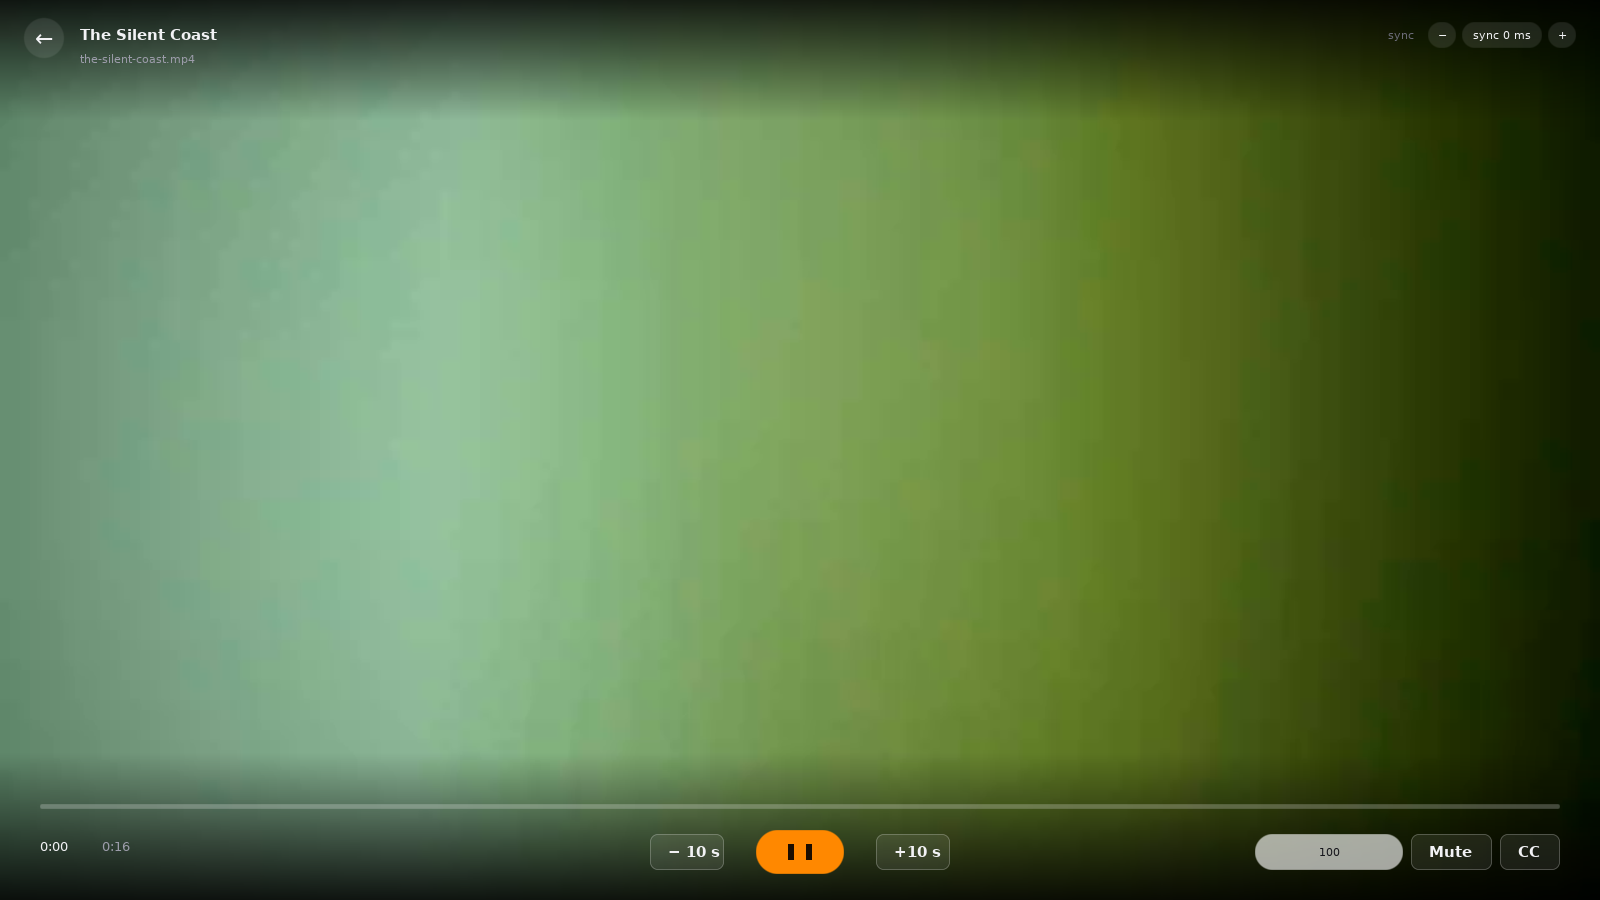
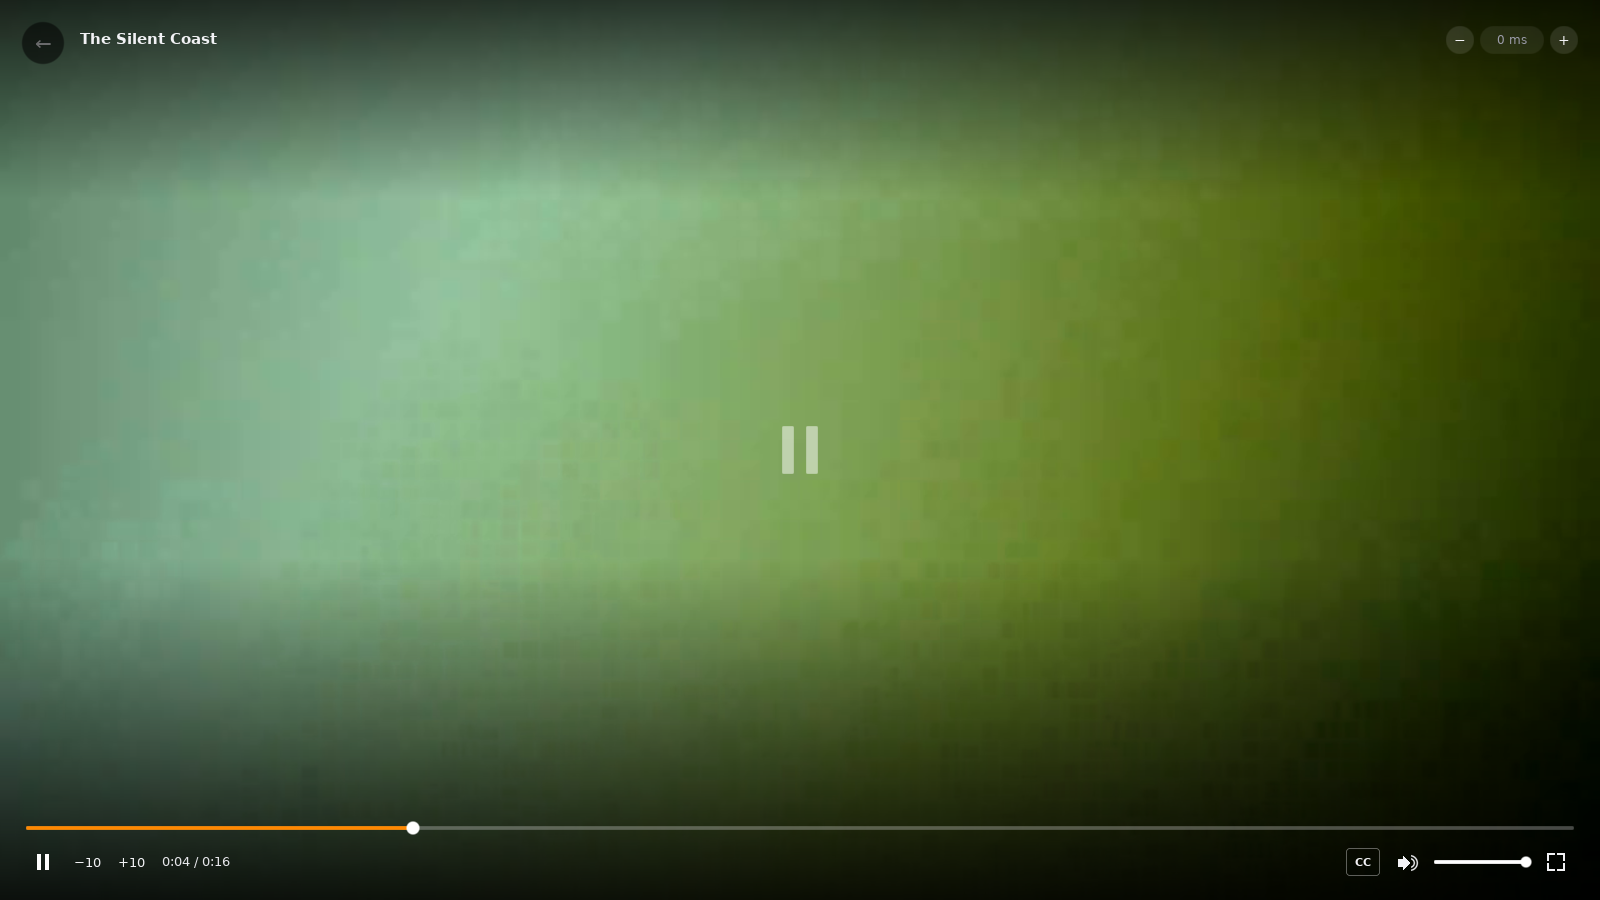
ui: match the player chrome and the hovered card

diff --git a/src/ui/player.cpp b/src/ui/player.cpp
@@ -439,6 +439,7 @@ void App::draw_player_frame(Canvas& canvas) {
     draw_end_card(canvas);
     return;
   }
+  draw_player_back(canvas);
   if (chrome_visible_) draw_chrome(canvas);
 }
 
@@ -472,114 +473,149 @@ void App::draw_end_card(Canvas& canvas) {
   draw_button(canvas, close, "Back to browse", false, Action{Action::Kind::ClosePlayer, -1, ""});
 }
 
+void App::draw_player_back(Canvas& canvas) {
+  const Rect back{22, 22, 42, 42};
+  canvas.fill_circle(back.x + 21, back.y + 21, 21, rgba(0x000000, 140));
+  regular_.draw_centered(canvas, "\xE2\x86\x90", back, 20, theme::text());
+  add_hit(back, Action{Action::Kind::ClosePlayer, -1, ""});
+}
+
 void App::draw_chrome(Canvas& canvas) {
   const float width = static_cast<float>(width_);
   const float height = static_cast<float>(height_);
   const Item* item = playing_index_ >= 0 && static_cast<std::size_t>(playing_index_) < catalog_.items.size()
                          ? &catalog_.items[static_cast<std::size_t>(playing_index_)]
                          : nullptr;
+  const bool playing = player_status_.state == PlayState::Playing;
 
-  // Top bar: back, title, and the sync chip.
-  canvas.fill_gradient_v(Rect{0, 0, width, 120}, rgba(0x000000, 210), rgba(0x000000, 0));
-  const Rect back{24, 18, 40, 40};
-  canvas.fill_circle(back.x + 20, back.y + 20, 20, rgba(0xffffff, 24));
-  regular_.draw_centered(canvas, "\xE2\x86\x90", back, 22, theme::text());
-  add_hit(back, Action{Action::Kind::ClosePlayer, -1, ""});
+  canvas.fill_gradient_v(Rect{0, 0, width, height * 0.22f}, rgba(0x000000, 184), rgba(0x000000, 0));
+  canvas.fill_gradient_v(Rect{0, height * 0.62f, width, height * 0.38f}, rgba(0x000000, 0),
+                         rgba(0x000000, 224));
+
   if (item) {
-    bold_.draw(canvas, bold_.ellipsize(item->title, theme::kFontBody, width - 480), 80, 26,
-               theme::kFontBody, theme::text());
-    regular_.draw(canvas, item->filename, 80, 52, theme::kFontTiny, theme::dim());
-    add_hit(Rect{80, 18, width - 480, 56}, Action{Action::Kind::OpenDetail, playing_index_, ""});
+    bold_.draw(canvas, bold_.ellipsize(item->title, 15.0f, width - 280), 80, 30, 15.0f, theme::text());
   }
-  // Sync, top right: [−] [sync 0 ms] [+]. Laid out from the right edge inwards so
-  // the last control can never fall off the window (it did in the first screenshot).
-  const float margin = 24;
-  const Rect sync_plus{width - margin - 28, 22, 28, 26};
-  const std::string sync_text = "sync " + describe_delay(manual_sync_ms_);
-  const float sync_w = regular_.measure(sync_text, theme::kFontTiny).width + 22;
-  const Rect sync_chip{sync_plus.x - 6 - sync_w, 22, sync_w, 26};
-  const Rect sync_minus{sync_chip.x - 6 - 28, 22, 28, 26};
-  const bool corrected = sync_plan_.audio_delay_ms != 0 || sync_plan_.video_delay_ms != 0;
-  canvas.fill_round_rect(sync_chip, 13, corrected ? rgba(theme::kAccent, 70) : rgba(0xffffff, 26));
-  regular_.draw_centered(canvas, sync_text, sync_chip, theme::kFontTiny, theme::text());
-  canvas.fill_round_rect(sync_minus, 13, rgba(0xffffff, 26));
-  regular_.draw_centered(canvas, "\xE2\x88\x92", sync_minus, theme::kFontTiny, theme::text());
-  add_hit(sync_minus, Action{Action::Kind::NudgeSync, -1, "-20"});
-  canvas.fill_round_rect(sync_plus, 13, rgba(0xffffff, 26));
-  regular_.draw_centered(canvas, "+", sync_plus, theme::kFontTiny, theme::text());
-  add_hit(sync_plus, Action{Action::Kind::NudgeSync, -1, "+20"});
-  regular_.draw(canvas, "sync", sync_minus.x - 40, 28, theme::kFontTiny, theme::faint());
 
-  // Bottom bar: scrub, then the controls.
-  const float bar_h = 148;
-  canvas.fill_gradient_v(Rect{0, height - bar_h, width, bar_h}, rgba(0x000000, 0),
-                         rgba(0x000000, 225));
-  const float gutter = 40;
-  const float track_y = height - 96;
-  const Rect track{gutter, track_y, width - 2 * gutter, 5};
-  canvas.fill_round_rect(track, 2.5f, rgba(0xffffff, 60));
+  const float margin = 22.0f;
+  const Rect sync_plus{width - margin - 28, 26, 28, 28};
+  const std::string sync_text = describe_delay(manual_sync_ms_);
+  const float sync_w = std::max(64.0f, regular_.measure(sync_text, 11.5f).width + 16);
+  const Rect sync_chip{sync_plus.x - 6 - sync_w, 26, sync_w, 28};
+  const Rect sync_minus{sync_chip.x - 6 - 28, 26, 28, 28};
+  canvas.fill_round_rect(sync_minus, 14, rgba(0xffffff, 28));
+  regular_.draw_centered(canvas, "\xE2\x88\x92", sync_minus, 14, theme::text());
+  add_hit(sync_minus, Action{Action::Kind::NudgeSync, -1, "-20"});
+  canvas.fill_round_rect(sync_chip, 14, rgba(0xffffff, 18));
+  regular_.draw_centered(canvas, sync_text, sync_chip, 11.5f, theme::dim());
+  canvas.fill_round_rect(sync_plus, 14, rgba(0xffffff, 28));
+  regular_.draw_centered(canvas, "+", sync_plus, 14, theme::text());
+  add_hit(sync_plus, Action{Action::Kind::NudgeSync, -1, "+20"});
+
+  // Centre icon: pause bars while playing, a play triangle while paused. Only this
+  // box is the button, not the whole picture.
+  const Rect big{(width - 84.0f) / 2.0f, (height - 84.0f) / 2.0f, 84, 84};
+  const int icon_alpha = playing ? 128 : 235;
+  if (playing) {
+    canvas.fill_round_rect(Rect{big.x + 24, big.y + 18, 12, 48}, 2, rgba(0xffffff, icon_alpha));
+    canvas.fill_round_rect(Rect{big.x + 48, big.y + 18, 12, 48}, 2, rgba(0xffffff, icon_alpha));
+  } else {
+    canvas.fill_triangle_right(Rect{big.x + 30, big.y + 20, 28, 44}, rgba(0xffffff, icon_alpha));
+  }
+  add_hit(big, Action{Action::Kind::TogglePause, -1, ""});
+
+  const float edge = 26.0f;
+  const float controls_y = height - 20.0f - 36.0f;
+  const Rect track{edge, controls_y - 18.0f, width - 2 * edge, 4};
+  player_seek_track_ = track;
+  canvas.fill_round_rect(track, 2, rgba(0xffffff, 70));
   const double length = player_status_.length > 0 ? player_status_.length : 0;
   const double fraction = length > 0 ? std::clamp(player_status_.time / length, 0.0, 1.0) : 0.0;
   if (fraction > 0) {
-    canvas.fill_round_rect(Rect{track.x, track.y, track.w * static_cast<float>(fraction), track.h},
-                           2.5f, theme::accent());
-    canvas.fill_circle(track.x + track.w * static_cast<float>(fraction), track.y + 2.5f, 7,
-                       theme::accent());
+    canvas.fill_round_rect(Rect{track.x, track.y, track.w * static_cast<float>(fraction), track.h}, 2,
+                           theme::accent());
   }
-  // A larger invisible hit area than the 5 px bar: nobody can hit 5 px with a mouse.
-  add_hit(Rect{gutter, track_y - 14, track.w, 32}, Action{Action::Kind::Seek, -1, ""});
+  const float thumb_x = track.x + track.w * static_cast<float>(fraction);
+  canvas.fill_circle(thumb_x, track.y + 2, 6.5f, rgb(0xffffff));
+  add_hit(Rect{track.x, track.y - 10, track.w, 24}, Action{Action::Kind::Seek, -1, ""});
 
-  const float controls_y = height - 66;
-  regular_.draw(canvas, clock_text(player_status_.time), gutter, controls_y + 4, theme::kFontSmall,
-                theme::text());
-  regular_.draw(canvas, clock_text(length), gutter + 62, controls_y + 4, theme::kFontSmall,
-                theme::dim());
+  auto pause_mark = [&](const Rect& box, int alpha) {
+    if (playing) {
+      canvas.fill_rect(Rect{box.x + 11, box.y + 10, 4, 16}, rgba(0xffffff, alpha));
+      canvas.fill_rect(Rect{box.x + 19, box.y + 10, 4, 16}, rgba(0xffffff, alpha));
+    } else {
+      canvas.fill_triangle_right(Rect{box.x + 12, box.y + 10, 12, 16}, rgba(0xffffff, alpha));
+    }
+  };
+  const Rect toggle{edge, controls_y, 36, 36};
+  pause_mark(toggle, 255);
+  add_hit(toggle, Action{Action::Kind::TogglePause, -1, ""});
 
-  const float center = width / 2;
-  // Previous 10 s, play/pause, next 10 s.
-  const Rect back10{center - 150, controls_y, 74, 36};
-  draw_button(canvas, back10, "\xE2\x88\x92 10 s", false, Action{Action::Kind::SeekRelative, -1, "-10"});
-  const Rect play{center - 44, controls_y - 4, 88, 44};
-  canvas.fill_round_rect(play, 22, theme::accent());
-  if (player_status_.state == PlayState::Playing) {
-    canvas.fill_rect(Rect{play.x + 32, play.y + 14, 6, 16}, rgb(0x1a0d00));
-    canvas.fill_rect(Rect{play.x + 50, play.y + 14, 6, 16}, rgb(0x1a0d00));
-  } else {
-    canvas.fill_triangle_right(Rect{play.x + 36, play.y + 13, 16, 18}, rgb(0x1a0d00));
+  const Rect back10{toggle.right() + 4, controls_y, 42, 36};
+  regular_.draw_centered(canvas, "\xE2\x88\x92" "10", back10, 13, theme::text());
+  add_hit(back10, Action{Action::Kind::SeekRelative, -1, "-10"});
+  const Rect fwd10{back10.right() + 2, controls_y, 42, 36};
+  regular_.draw_centered(canvas, "+10", fwd10, 13, theme::text());
+  add_hit(fwd10, Action{Action::Kind::SeekRelative, -1, "10"});
+
+  const std::string clock = clock_text(player_status_.time) + " / " + clock_text(length);
+  regular_.draw(canvas, clock, fwd10.right() + 10, controls_y + 10, 12.5f, rgb(0xe6e6ea));
+
+  // Right cluster, from the edge inwards: fullscreen, volume, speaker, CC.
+  const Rect full{width - edge - 36, controls_y, 36, 36};
+  const float fx = full.x + 9;
+  const float fy = full.y + 9;
+  canvas.fill_rect(Rect{fx, fy, 8, 2}, theme::text());
+  canvas.fill_rect(Rect{fx, fy, 2, 8}, theme::text());
+  canvas.fill_rect(Rect{fx + 10, fy, 8, 2}, theme::text());
+  canvas.fill_rect(Rect{fx + 16, fy, 2, 8}, theme::text());
+  canvas.fill_rect(Rect{fx, fy + 16, 8, 2}, theme::text());
+  canvas.fill_rect(Rect{fx, fy + 10, 2, 8}, theme::text());
+  canvas.fill_rect(Rect{fx + 10, fy + 16, 8, 2}, theme::text());
+  canvas.fill_rect(Rect{fx + 16, fy + 10, 2, 8}, theme::text());
+  add_hit(full, Action{Action::Kind::ToggleFullscreen, -1, ""});
+
+  const Rect vol_track{full.x - 12 - 92, controls_y + 16, 92, 4};
+  player_volume_track_ = vol_track;
+  canvas.fill_round_rect(vol_track, 2, rgba(0xffffff, 80));
+  const float level = engine_.muted() ? 0.0f : std::clamp(engine_.volume() / 100.0f, 0.0f, 1.0f);
+  if (level > 0) {
+    canvas.fill_round_rect(Rect{vol_track.x, vol_track.y, vol_track.w * level, vol_track.h}, 2,
+                           rgb(0xffffff));
   }
-  add_hit(play, Action{Action::Kind::TogglePause, -1, ""});
-  const Rect fwd10{center + 76, controls_y, 74, 36};
-  draw_button(canvas, fwd10, "+10 s", false, Action{Action::Kind::SeekRelative, -1, "10"});
+  canvas.fill_circle(vol_track.x + vol_track.w * level, vol_track.y + 2, 5.5f, rgb(0xffffff));
+  add_hit(Rect{vol_track.x - 4, vol_track.y - 8, vol_track.w + 8, 20},
+          Action{Action::Kind::Volume, -1, ""});
 
-  // Right: volume, mute, subtitles, laid out from the right edge inwards so the last
-  // control cannot be clipped (it was: the CC label fell off the window edge).
-  const float right = width - gutter;
-  const float cc_w = button_width("CC", false);
-  const Rect sub{right - cc_w, controls_y, cc_w, 36};
-  // A highlighted CC means "subtitles on", so it is drawn as a primary button but
-  // without the play triangle that primary normally carries.
-  draw_button(canvas, sub, "CC", subtitle_track_ >= 0, Action{Action::Kind::CycleSubtitles, -1, ""},
-              false);
-  const std::string mute_label = engine_.muted() ? "Muted" : "Mute";
-  const float mute_w = button_width(mute_label, engine_.muted(), false);
-  const Rect mute{sub.x - 8 - mute_w, controls_y, mute_w, 36};
-  draw_button(canvas, mute, mute_label, engine_.muted(), Action{Action::Kind::Mute, -1, ""}, false);
-  const Rect vol{mute.x - 8 - 148, controls_y, 148, 36};
-  canvas.fill_round_rect(vol, 18, rgba(0xffffff, 26));
-  const float level = std::clamp(engine_.volume() / 100.0f, 0.0f, 1.0f);
-  canvas.fill_round_rect(Rect{vol.x, vol.y, vol.w * level, vol.h}, 18, rgba(0xffffff, 150));
-  regular_.draw_centered(canvas, std::to_string(engine_.volume()),
-                         Rect{vol.x, vol.y, vol.w, vol.h}, theme::kFontTiny,
-                         level > 0.55f ? rgb(0x15151b) : theme::text());
-  add_hit(vol, Action{Action::Kind::Volume, -1, ""});
+  const Rect speaker{vol_track.x - 8 - 36, controls_y, 36, 36};
+  const float sx = speaker.x + 8;
+  const float sy = speaker.y + 11;
+  canvas.fill_rect(Rect{sx, sy + 4, 5, 8}, theme::text());
+  canvas.fill_triangle_right(Rect{sx + 5, sy, 8, 16}, theme::text());
+  if (!engine_.muted()) {
+    // Only the right half of the rings, so they read as sound waves rather than a target.
+    canvas.push_clip(Rect{sx + 13, sy - 2, 16, 22});
+    canvas.stroke_circle(sx + 12, sy + 8, 5, 1.4f, theme::text());
+    canvas.stroke_circle(sx + 12, sy + 8, 8, 1.4f, theme::text());
+    canvas.pop_clip();
+  }
+  add_hit(speaker, Action{Action::Kind::Mute, -1, ""});
+
+  const bool subs_on = subtitle_track_ >= 0;
+  const Rect cc{speaker.x - 8 - 36, controls_y + 4, 34, 28};
+  if (subs_on) canvas.fill_round_rect(cc, 4, rgb(0xe50914));
+  else canvas.stroke_round_rect(cc, 4, 1.0f, rgba(0xffffff, 90));
+  bold_.draw_centered(canvas, "CC", cc, 11, theme::text());
+  add_hit(cc, Action{Action::Kind::CycleSubtitles, -1, ""});
 
   if (!player_error_.empty()) {
-    regular_.draw_centered(canvas, player_error_, Rect{0, height - 150, width, 24},
-                           theme::kFontSmall, rgb(0xff8f8f));
+    const float text_w = regular_.measure(player_error_, 12.5f).width;
+    const Rect pill{(width - std::min(text_w + 36, width - 80)) / 2, height - 118,
+                    std::min(text_w + 36, width - 80), 36};
+    canvas.fill_round_rect(pill, 18, rgba(0xffe4e4, 230));
+    regular_.draw_centered(canvas, regular_.ellipsize(player_error_, 12.5f, pill.w - 24), pill, 12.5f,
+                           rgb(0x8a1f1f));
   }
 }
-
-
 
 /* --------------------------------- input ---------------------------------- */
 
@@ -601,11 +637,11 @@ bool App::handle_player(const InputEvent& event) {
       switch (action.kind) {
         case Action::Kind::Seek: {
           const double length = player_status_.length;
-          if (length <= 0) return false;
-          const float gutter = 40;
-          const float span = static_cast<float>(width_) - 2 * gutter;
+          if (length <= 0 || player_seek_track_.w <= 1) return false;
           const double target =
-              std::clamp(static_cast<double>((event.x - gutter) / span), 0.0, 1.0) * length;
+              std::clamp(static_cast<double>((event.x - player_seek_track_.x) / player_seek_track_.w), 0.0,
+                         1.0) *
+              length;
           engine_.seek(target);
           return true;
         }
@@ -620,11 +656,12 @@ bool App::handle_player(const InputEvent& event) {
           engine_.set_muted(!engine_.muted());
           return true;
         case Action::Kind::Volume:
-          // The same geometry the drawing used: [volume][8][mute][8][CC] from the right.
+          if (player_volume_track_.w <= 1) return false;
           engine_.set_volume(static_cast<int>(
-              (event.x - (static_cast<float>(width_) - 40 - button_width("CC", false) - 8 -
-                          button_width("Muted", false) - 8 - 148)) *
-              100.0f / 148.0f));
+              std::clamp((event.x - player_volume_track_.x) / player_volume_track_.w, 0.0f, 1.0f) * 100.0f));
+          return true;
+        case Action::Kind::ToggleFullscreen:
+          if (on_toggle_fullscreen) on_toggle_fullscreen();
           return true;
         case Action::Kind::CycleSubtitles:
           cycle_subtitle_track(1);

diff --git a/src/ui/app.cpp b/src/ui/app.cpp
@@ -596,7 +596,9 @@ void App::draw_poster_card(Canvas& canvas, const Rect& rect, const Item& item, b
   // rectangle up in the hit list afterwards found the wrong thing (the hero has clickable
   // areas for the same film), which drew the enlarged card over the buttons instead of
   // over the poster the pointer is on.
-  if (hovered && pointer_known_ && card.contains(pointer_x_, pointer_y_)) {
+  // A real pointer has to be on this card. A render that forced the hover has no
+  // pointer yet, and still needs the card it named.
+  if (hovered && (!pointer_known_ || card.contains(pointer_x_, pointer_y_))) {
     hover_card_rect_ = card;
     hover_card_valid_ = true;
   }
@@ -645,9 +647,7 @@ void App::draw_hover_card(Canvas& canvas) {
   const Item& item = catalog_.items[static_cast<std::size_t>(hover_item_)];
   const bool wide = card->w > card->h * 1.2f;  // "Continue Watching" cards are 16:9
 
-  // Grow around the card's own centre, so it looks like the card rising towards the
-  // pointer rather than sliding away from it.
-  const float scale = wide ? 1.12f : 1.24f;
+  const float scale = wide ? 1.34f : 1.06f;
   float w = card->w * scale;
   float h = card->h * scale;
   float x = card->x + card->w / 2 - w / 2;
@@ -701,21 +701,21 @@ void App::draw_hover_card(Canvas& canvas) {
                          rgba(0x000000, 0), rgba(0x000000, 215));
   bold_.draw(canvas, bold_.ellipsize(item.title, theme::kFontBody, grown.w - 24), grown.x + 12,
              grown.bottom() - text_block + 6, theme::kFontBody, theme::text());
-  regular_.draw(canvas, regular_.ellipsize(meta_line(item), theme::kFontTiny, grown.w - 24),
-                grown.x + 12, grown.bottom() - text_block + 32, theme::kFontTiny,
-                rgba(0xffffff, 200));
-  if (const int percent = percent_for(item); percent > 0) {
-    const float bar_height = 4;
-    const float bar_y = grown.bottom() - text_block + 50;
-    canvas.fill_round_rect(Rect{grown.x + 12, bar_y, grown.w - 24, bar_height}, bar_height / 2,
-                           rgba(0xffffff, 70));
-    canvas.fill_round_rect(Rect{grown.x + 12, bar_y, (grown.w - 24) * percent / 100.0f, bar_height},
-                           bar_height / 2, theme::accent());
-  }
-  canvas.stroke_round_rect(grown, radius, 2.0f, rgba(theme::kAccent, 235));
+  const float by = grown.bottom() - text_block - 36;
+  auto mini = [&](float x, bool filled, const char* mark, Action action) {
+    const Rect box{x, by, 25, 25};
+    if (filled) canvas.fill_circle(box.x + 12.5f, box.y + 12.5f, 12.5f, rgb(0xffffff));
+    else canvas.stroke_circle(box.x + 12.5f, box.y + 12.5f, 12.0f, 1.5f, rgba(0xffffff, 180));
+    if (filled) canvas.fill_triangle_right(Rect{box.x + 9, box.y + 7, 9, 11}, rgb(0x0b0b0f));
+    else regular_.draw_centered(canvas, mark, box, 12, theme::text());
+    add_hit(box, action);
+  };
   canvas.pop_clip();
 
   add_hit(grown, Action{Action::Kind::OpenDetail, hover_item_, ""});
+  mini(grown.x + 12, true, "", Action{Action::Kind::Play, hover_item_, ""});
+  mini(grown.x + 43, false, "+", Action{Action::Kind::ToggleMyList, hover_item_, ""});
+  mini(grown.x + 74, false, "i", Action{Action::Kind::OpenDetail, hover_item_, ""});
 }
 
 void App::draw_hover_preview(Canvas& canvas) { draw_hover_card(canvas); }
@@ -2017,6 +2017,7 @@ bool App::handle(const InputEvent& event) {
         case Action::Kind::Volume:
         case Action::Kind::CycleSubtitles:
         case Action::Kind::NudgeSync:
+        case Action::Kind::ToggleFullscreen:
           return false;
       }
       return false;

diff --git a/tests/ui_tests.cpp b/tests/ui_tests.cpp
@@ -1096,9 +1096,11 @@ void test_ui_hover_grows_in_place() {
   CHECK(found_grown);
   CHECK(grown.h > rest.h);
 
-  // In place: the same centre as the card at rest, not a panel somewhere else.
+  // In place: the same centre as the card at rest, not a panel somewhere else. A card
+  // that would leave the window is nudged back, so the vertical centre can move a few
+  // pixels. A panel drawn above or below would miss by a card-height, not by a nudge.
   CHECK_NEAR(grown.x + grown.w / 2, rest.x + rest.w / 2, 1.0);
-  CHECK_NEAR(grown.y + grown.h / 2, rest.y + rest.h / 2, 1.0);
+  CHECK_NEAR(grown.y + grown.h / 2, rest.y + rest.h / 2, 8.0);
 
   // On screen, and below the header rather than over it.
   CHECK(grown.x >= -1);
@@ -1125,9 +1127,8 @@ void test_ui_hover_grows_in_place() {
   }
   CHECK(same);
 
-  // One new hit area - the grown card - and no panel's worth of extra ones.
   CHECK(app.hit_rects().size() >= hits_before);
-  CHECK(app.hit_rects().size() <= hits_before + 1);
+  CHECK(app.hit_rects().size() <= hits_before + 4);
 
   // A click on the grown card opens that film: growth must not cost the click.
   const ui::Action top = top_action_at(app, grown.x + grown.w / 2, grown.y + grown.h / 2);

diff --git a/src/ui/app.h b/src/ui/app.h
@@ -72,6 +72,7 @@ struct Action {
     Volume,
     CycleSubtitles,
     NudgeSync,      // value = +/- ms
+    ToggleFullscreen,
     RemoveFolder,   // value = the folder
     UseSampleFolder,
     ScrollTo,       // value = scroll region; a click on the bar's track jumps there
@@ -291,6 +292,7 @@ class App {
   const std::string& rail_at(float x, float y) const;
   void notify(const std::string& message);
   bool handle_player(const InputEvent& event);
+  void draw_player_back(Canvas& canvas);
   void draw_chrome(Canvas& canvas);
   void draw_end_card(Canvas& canvas);
   void apply_sync();
@@ -327,6 +329,9 @@ class App {
   bool player_open_ = false;       // a film is loaded in the player view
   bool player_chrome_ = false;     // the chrome is drawn over the picture
   bool chrome_visible_ = true;
+  // The seek and volume tracks, so a click uses the bar that was drawn.
+  Rect player_seek_track_{};
+  Rect player_volume_track_{};
   bool player_finished_ = false;
   bool player_failed_ = false;
   double chrome_hidden_at_ = -1;   // clock time when the chrome last hid
